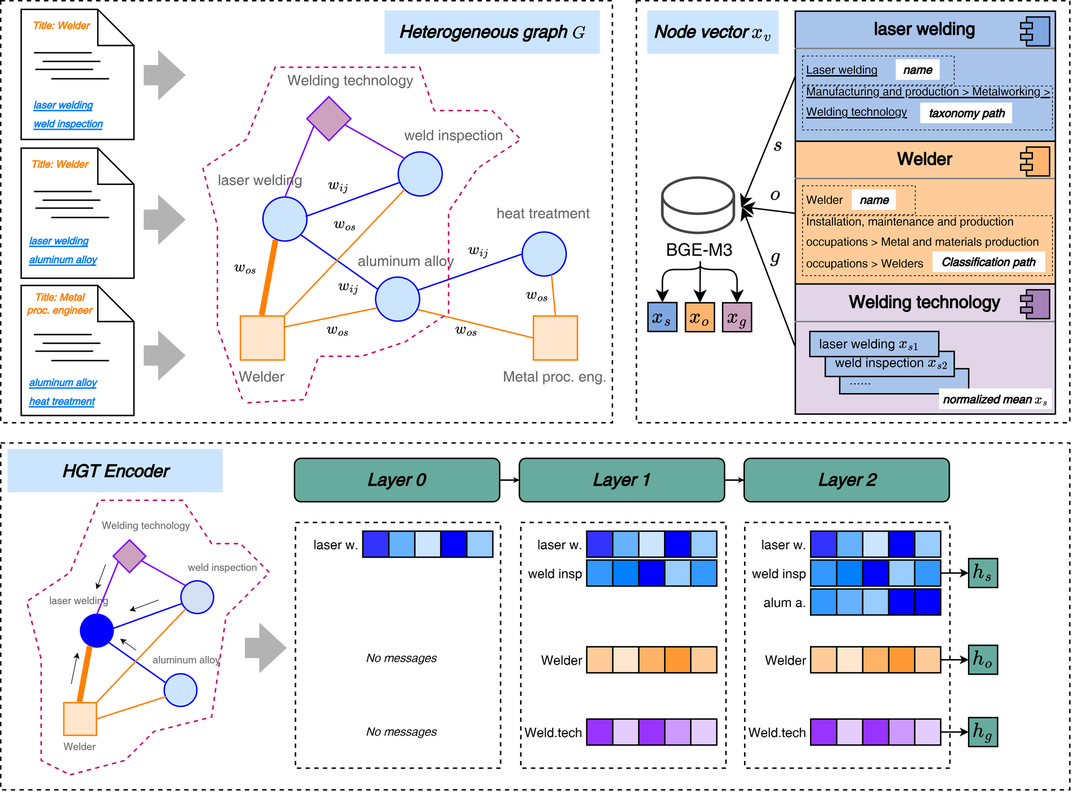
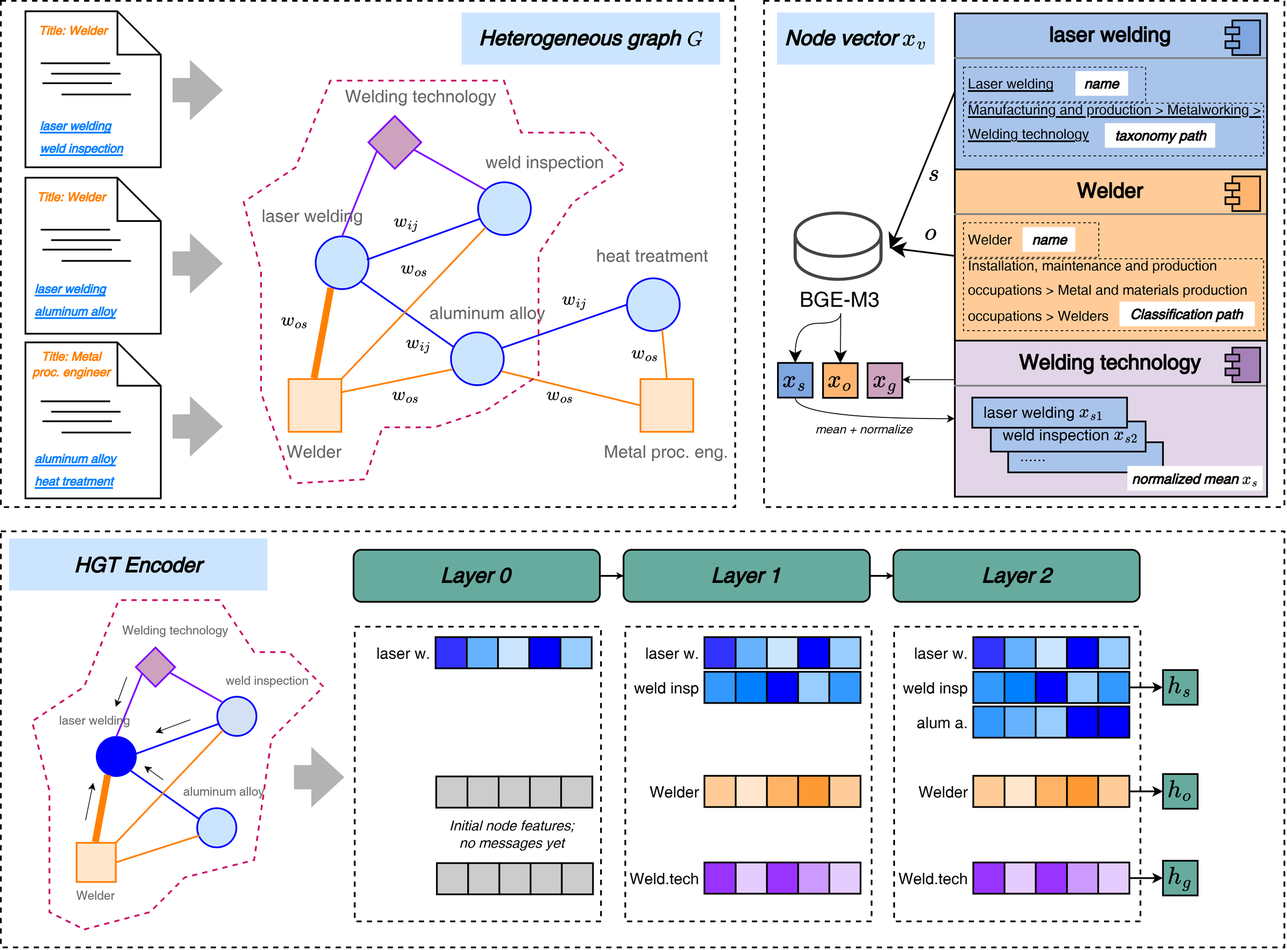
Align documentation and figures with the revised manuscript

diff --git a/docs/results.md b/docs/results.md
@@ -6,21 +6,21 @@ All numbers are taken from *LARA: Labor-market-aware relational attention for te
 
 | Item | Value |
 | --- | --- |
-| Labor-market data | Korean job postings, 2021-2024; 7,934,099 postings |
-| Patents | Granted Korean patents filed 2019-2023; 40 per year, 200 in total |
+| Labor-market data | Korean job postings, 2021-2024; 7,934,099 postings after duplicate removal |
+| Patents | Granted Korean patents filed 2019-2023 in the foundational technology industries; 40 per year, 200 in total |
 | Candidate skills | Entire skill dictionary, 6,558 skills |
 | Graph nodes | 6,558 skills, 450 occupations, 29 / 118 / 464 taxonomy groups |
 | Graph relations | occupation-skill, skill co-occurrence, taxonomy membership, aggregated group co-occurrence |
 | Train / validation / test | 120 / 40 / 40 patents |
 | Known relevant pairs | 1,040 (train), 352 (validation), 367 (test); one explicit negative per split |
-| Relevant skill | merged human grade 1 or 2 |
+| Relevant skill | human grade 1 or 2, the higher grade given under the development and the use of the technology |
 | Evaluation unit | full-dictionary recommendation list per patent |
 
-Learned models were trained with three seeds (42, 43, 44); checkpoints were selected on validation known-positive Recall@5 and evaluated once on the sealed test set. Bold marks the best value per column.
+Learned models were trained three times with different random initializations (seeds 42, 43, 44); checkpoints were selected on validation known-positive Recall@5 and evaluated once on the sealed test set. Means and sample SDs are over the three runs; paired increments are computed within each run before averaging. The SD describes training variation, not a confidence interval. Bold marks the best value per column.
 
-## Full-dictionary retrieval on the test set (%)
+## Full-dictionary retrieval on the test set (RQ1, %)
 
-Recall@5 is mean ± sample SD across seeds; other columns are means. Skill frequency, which retrieves no known positive at any cutoff, is omitted.
+Recall@5 is mean ± sample SD across runs; other columns are means. Skill frequency, which retrieves no known positive at any cutoff, is omitted.
 
 | Model | Recall@5 | Hit@5 | Recall@20 | Recall@100 |
 | --- | ---: | ---: | ---: | ---: |
@@ -36,15 +36,15 @@ Recall@5 is mean ± sample SD across seeds; other columns are means. Skill frequ
 | LARA-NA | 18.60 ± 1.10 | 84.17 | 41.11 | 68.26 |
 | **LARA** | **20.86 ± 0.90** | **87.50** | **44.26** | **72.82** |
 
-Relation diffusion equals BGE similarity because validation selected a diffusion strength of zero. Within-seed increments of LARA over Text MLP, HGT and LARA-NA: 4.92 ± 1.26, 3.93 ± 0.19 and 2.26 ± 0.45 percentage points.
+Relation diffusion equals BGE similarity because validation selected a diffusion strength of zero. Paired increments of LARA over Text MLP, HGT and LARA-NA: 4.92 ± 1.26, 3.93 ± 0.19 and 2.26 ± 0.45 percentage points. These are differences between complete architectures; they do not isolate the effect of a specific relation.
 
-![RQ1: Recall@5 and Recall@K on the test set](figures/results_rq1.png)
+![RQ1: Recall@K on the test set](figures/results_rq1.png)
 
-## Recall by semantic group (test Recall@5, %, mean ± SD)
+## Recall by similarity bin (RQ2, test Recall@5, %, mean ± SD)
 
-Low, medium and high bins are defined by the BGE cosine of training positives (127, 100 and 140 test pairs); the last column is the overlapping subset of 334 positives outside each patent's BGE top five.
+Low, middle and high bins are defined by the BGE cosine of training positives (127, 100 and 140 test pairs); the last column is the overlapping subset of 334 positives outside each patent's BGE top five.
 
-| Model | Low | Medium | High | Outside BGE top-5 |
+| Model | Low | Middle | High | Outside BGE top-5 |
 | --- | ---: | ---: | ---: | ---: |
 | BGE similarity | 0.00 | 0.95 | **37.91** | 0.00 |
 | Relation diffusion | 0.00 | 0.95 | **37.91** | 0.00 |
@@ -60,13 +60,28 @@ Low, medium and high bins are defined by the BGE cosine of training positives (1
 
 Relative to Text MLP, LARA retrieves 24.00 additional positive pairs outside the BGE top five while losing 8.67 (net +15.33); relative to HGT the counts are 21.33 and 6.67, relative to LARA-NA 16.33 and 7.33. BGE's higher macro recall in the high bin does not contradict LARA recovering more high-bin pairs in absolute terms (41 versus 32 on average): the macro metric divides by each patent's number of positives in the bin first.
 
-![RQ2: recall by semantic group and pairwise gains](figures/results_rq2.png)
+![RQ2: recall by similarity bin and pairwise gains](figures/results_rq2.png)
+
+### Known positives by skill attribute
+
+The same test lists decomposed by attributes of the relevant skill (boundaries from training positives). Values are paired increments of LARA over Text MLP in Recall@5, percentage points, with the number of relevant pairs in the group.
+
+| Attribute | Groups (pairs) | LARA − Text MLP |
+| --- | --- | --- |
+| Grade | directly relevant, grade 2 (118); indirectly relevant, grade 1 (249) | +7.24 ± 3.09; +2.96 ± 0.64 |
+| Posting-frequency tercile | lowest; middle; highest | +3.06 ± 4.96; +9.09 ± 1.18; −0.37 ± 1.04 |
+| Co-occurrence-degree tercile | least connected (includes 12 isolated pairs); most connected | +2.57 ± 4.54; +6.12 ± 0.54 (the middle tercile lies between; see figure) |
+| Taxonomy group | engineering; manufacturing and production; information technology (41 pairs, 10 patents) | +10.35 ± 4.70; +6.86 ± 4.21; +0.56 ± 1.73 |
+
+In the highest posting-frequency tercile Text MLP reaches 18.30 % and LARA a similar value; for information-technology skills LARA's recall (2.50 %) lies 5.00 points below the control without posting relations. The analysis does not identify why. Groups overlap, and differences between groups are not causal effects of the attribute.
+
+![Known positives by skill attribute](figures/results_rq2_groups.png)
 
 ## Structural ablations
 
-Increments are LARA minus the control in known-positive Recall@5, in percentage points, computed within matching seeds before averaging; positive values favor LARA. Controls: removal of occupation relations, removal of skill co-occurrence, removal of all posting relations, degree-preserving rewiring of the market graph, and fixed (not patent-conditioned) occupation routing.
+Increments are LARA minus the control in known-positive Recall@5, in percentage points, computed within matching runs before averaging; positive values favor LARA. Controls: removal of occupation relations, removal of skill co-occurrence, removal of all posting relations, degree-preserving rewiring of the market graph (one rewired graph), and fixed (not patent-conditioned) occupation routing.
 
-| Control | Test Recall@5 | Increment | Low | Medium | High | Outside BGE top-5 |
+| Control | Test Recall@5 | Increment | Low | Middle | High | Outside BGE top-5 |
 | --- | ---: | ---: | ---: | ---: | ---: | ---: |
 | LARA | 20.86 ± 0.90 | – | | | | |
 | without occupation relations | 19.95 ± 1.11 | +0.91 ± 1.45 | −1.99 | +0.98 | +4.23 | +0.94 |
@@ -75,13 +90,13 @@ Increments are LARA minus the control in known-positive Recall@5, in percentage 
 | rewired market graph | 21.65 ± 0.71 | −0.79 ± 0.20 | −1.13 | −0.27 | −2.90 | −0.37 |
 | fixed occupation routing | 20.43 ± 0.59 | +0.43 ± 1.44 | −0.11 | −1.60 | +1.32 | +0.40 |
 
-The removal and fixed-routing controls lower recall, which quantifies the contribution of those components. Removing co-occurrence and rewiring do not, so the experiments support the complete architecture while not establishing that the observed edge arrangement itself is necessary. The proposed model and protocol were not changed after these test results were inspected.
+The removal and fixed-routing controls lower recall, which quantifies the contribution of those components. Removing co-occurrence and rewiring do not, so the experiments support the complete architecture while not establishing that the observed edge arrangement itself is necessary; why the rewired graph remains effective is not identified. The proposed model and protocol were not changed after these test results were inspected.
 
 ![Ablations: increments overall and by group](figures/results_ablation.png)
 
-## Sensitivity to training-set size (validation Recall@5, %)
+## Sensitivity to training-set size (RQ3, validation Recall@5, %)
 
-Separate fits on nested training subsets; at 30-90 patents the SD combines three subset draws and three seeds, at 120 patents three seeds. The last two columns are matched increments.
+Separate fits on nested training subsets drawn within each filing year. At 30, 60 and 90 patents each model is fitted with three subset draws and three initializations per draw (nine runs); at 120 patents the complete training set is used with three initializations only. The last two columns are paired increments.
 
 | Training patents | Runs per model | Text MLP | LARA-NA | LARA | LARA − Text MLP | LARA − LARA-NA |
 | ---: | ---: | ---: | ---: | ---: | ---: | ---: |
@@ -90,6 +105,23 @@ Separate fits on nested training subsets; at 30-90 patents the SD combines three
 | 90 | 9 | 19.34 ± 0.55 | 21.42 ± 0.88 | **22.53 ± 0.79** | +3.19 ± 0.94 | +1.11 ± 0.94 |
 | 120 | 3 | 19.17 ± 0.84 | 22.00 ± 0.88 | **23.50 ± 1.10** | +4.33 ± 0.67 | +1.50 ± 1.86 |
 
+The mean advantage remains positive at every size but does not increase consistently as fewer labels are used, so the results do not support the claim that posting relations substitute for labeled patents. The comparison concerns complete architectures, and the 120-patent fits do not replace the frozen checkpoints of the main test.
+
+![RQ3: validation Recall@5 by number of labeled training patents](figures/results_training_size.png)
+
+## Precision of the complete top-five lists (RQ4, test, one training run)
+
+For the 40 test patents, every previously unjudged top-five recommendation of LARA, Text MLP, HGT and BGE similarity (371 pairs, one training run per learned model) was judged by the two original annotators, blind to the recommending model, with a coordinator adjudicating disagreements; 364 pairs received a grade and 7 remained withheld. Precision@5 counts slots with grade 1 or 2; strict Precision@5 counts grade 2 only. Withheld slots receive no relevance credit but remain in the denominator. Brackets are 95 % percentile-bootstrap intervals over patents (10,000 resamples); the last column is LARA minus the model.
+
+| Model | Precision@5 | 95 % CI | Strict Precision@5 | 95 % CI | Withheld slots | LARA − model |
+| --- | ---: | ---: | ---: | ---: | ---: | ---: |
+| BGE similarity | 32.00 | [25.0, 39.0] | 16.50 | [11.0, 23.0] | 6 | +45.00 [+36.5, +53.5] |
+| Text MLP | 70.00 | [64.0, 76.0] | 38.00 | [30.5, 45.5] | 0 | +7.00 [+1.0, +13.0] |
+| HGT | 65.50 | [59.0, 72.0] | 39.50 | [33.0, 46.0] | 1 | +11.50 [+5.5, +18.0] |
+| **LARA** | **77.00** | [71.5, 82.5] | **45.00** | [38.0, 52.0] | 0 | – |
+
+Of LARA's 200 slots, 90 received grade 2, 64 grade 1 and 46 grade 0. The strict-precision difference over Text MLP (+7.0, +0.5 to +13.5) excludes zero, whereas the difference over HGT (+5.5, −0.5 to +12.0) includes zero. Among previously unjudged recommendations that received a grade, 62.9 % were found relevant for LARA (124 pairs), 59.2 % for Text MLP (147), 51.1 % for HGT (139 graded of 140) and 19.3 % for BGE similarity (161 graded of 167). Known-positive Recall@5 therefore describes recovery of the reference set, not the relevance of the list.
+
 ## What the method does and does not claim
 
-The method retrieves candidate skills for a new description in an observed labor-market context. It does not forecast which skills will be adopted, and the Korean experiment does not show that trained weights transfer unchanged to another national labor market. Reported recall covers known positives only; unjudged recommendations are neither correct nor incorrect under these data.
+The method retrieves candidate skills for a new description in an observed labor-market context (Korean postings of 2021-2024, which include observations after some patents' filing dates). It does not forecast which skills will be adopted, and the Korean experiment does not show that trained weights transfer unchanged to another national labor market. Reported recall covers known positives only; unjudged recommendations are neither correct nor incorrect under these data, and the judged-list precision is available for four models and one training run.

diff --git a/README.md b/README.md
@@ -11,15 +11,15 @@ This repository packages the architecture and the data pipeline so that the meth
 1. **Labor-market graph and node features.** Job postings and the skill dictionary define a heterogeneous graph of skills (co-occurrence edges), occupations (occupation-skill demand edges) and taxonomy groups (membership and aggregated co-occurrence). Every node carries a frozen text embedding (BGE-M3 by default); a static typed graph attention encoder (HGT-style, with a log edge-weight prior) produces node states.
 2. **Patent-conditioned node attention.** The description embedding passes through a content-preserving adapter and attends, per node type, to actual skill, occupation and taxonomy nodes.
 3. **Relation routes and fusion.** Attention mass reaches skills through three routes: a skill route over co-occurrence, an occupation route whose occupation-to-skill weights depend on the description, and a taxonomy route. A gate conditioned on the original embedding mixes the routes; the same gate applied to a uniform-attention reference gives a baseline mass, and the log ratio is the graph evidence for each skill.
-4. **Skill score.** A decoder over query and skill states plus the graph evidence forms a residual that is bounded by `0.1 * tanh(.)` around the text cosine, so the model starts at the semantic baseline and can only correct it within a corridor. Training minimizes a KL loss against soft targets built from the text similarity distribution with known positives mixed in and explicit negatives removed. The top-K skills are selected from the full dictionary.
+4. **Skill score.** A decoder over the projected query, the skill state, the text similarity and the skill's posting frequency, together with the graph evidence, forms a residual that is bounded by `0.1 * tanh(.)` around the text cosine, so the model starts at the semantic baseline and can only correct it within a corridor. Training minimizes a KL loss against soft targets built from the text similarity distribution with known positives mixed in and explicit negatives removed. The top-K skills are selected from the full dictionary.
 
 The `lara-na` variant keeps the node attention but routes evidence with fixed market weights and equal mass per node type. Component-level details and hyperparameters: [docs/models.md](docs/models.md).
 
 ## Results
 
-Numbers come from the manuscript *LARA: Labor-market-aware relational attention for technology-to-skill recommendation* (under review). Data: 7,934,099 Korean job postings (2021-2024), a dictionary of 6,558 skills with a 29/118/464 taxonomy, 450 occupations, and 200 human-labeled patents filed 2019-2023 split 120 / 40 / 40 into train / validation / test. Metrics are computed over the full 6,558-skill list per patent; recall counts known relevant skills only, and unjudged recommendations are never treated as errors. Learned models report the mean over three training seeds.
+Numbers come from the manuscript *LARA: Labor-market-aware relational attention for technology-to-skill recommendation* (under review). Data: 7,934,099 Korean job postings (2021-2024), a dictionary of 6,558 skills with a 29/118/464 taxonomy, 450 occupations, and 200 human-labeled patents filed 2019-2023 split 120 / 40 / 40 into train / validation / test. Metrics are computed over the full 6,558-skill list per patent; recall counts known relevant skills only, and unjudged recommendations are never treated as errors. Learned models report the mean over three training runs with different random initializations.
 
-**Held-out test retrieval (40 patents, 367 known relevant pairs, %).** Recall@5 is mean ± sample SD across seeds.
+**Held-out test retrieval (40 patents, 367 known relevant pairs, %).** Recall@5 is mean ± sample SD across runs.
 
 | Model | Recall@5 | Hit@5 | Recall@20 | Recall@100 |
 | --- | ---: | ---: | ---: | ---: |
@@ -34,13 +34,13 @@ Numbers come from the manuscript *LARA: Labor-market-aware relational attention 
 | LARA-NA (`lara-na`) | 18.60 ± 1.10 | 84.17 | 41.11 | 68.26 |
 | **LARA (`lara`)** | **20.86 ± 0.90** | **87.50** | **44.26** | **72.82** |
 
-Within-seed increments of LARA over Text MLP, HGT and LARA-NA are 4.92 ± 1.26, 3.93 ± 0.19 and 2.26 ± 0.45 percentage points.
+Paired increments of LARA over Text MLP, HGT and LARA-NA (computed within each run) are 4.92 ± 1.26, 3.93 ± 0.19 and 2.26 ± 0.45 percentage points. These are differences between complete architectures and do not isolate a single relation.
 
 ![RQ1 results](docs/figures/results_rq1.png)
 
-**Skills that semantic similarity misses.** Among the 334 known relevant pairs outside the BGE top five, LARA recovers 15.94 ± 0.83 % at K = 5, compared with 11.74 ± 0.34 % for Text MLP, 11.53 ± 1.05 % for HGT and 13.57 ± 1.12 % for LARA-NA. Relative to Text MLP, LARA retrieves 24.00 additional positive pairs on average while losing 8.67. Across similarity bins defined on training data, LARA and Text MLP are close in the low bin (10.81 vs 10.91 %), while LARA leads in the medium bin (22.23 vs 19.92 %); BGE keeps the highest macro recall in the high bin (37.91 vs 34.37 %).
+**Skills that semantic similarity misses.** Among the 334 known relevant pairs outside the BGE top five, LARA recovers 15.94 ± 0.83 % at K = 5, compared with 11.74 ± 0.34 % for Text MLP, 11.53 ± 1.05 % for HGT and 13.57 ± 1.12 % for LARA-NA. Relative to Text MLP, LARA retrieves 24.00 additional positive pairs on average while losing 8.67. Across similarity bins defined on training data, LARA and Text MLP are close in the low bin (10.81 vs 10.91 %), while LARA leads in the middle bin (22.23 vs 19.92 %); BGE keeps the highest macro recall in the high bin (37.91 vs 34.37 %). Decomposed by attributes of the relevant skill, the gain over Text MLP is largest for directly relevant, moderately frequent and well-connected skills and for engineering and manufacturing skill groups; it is absent in the highest posting-frequency tercile and small for information-technology skills ([docs/results.md](docs/results.md)).
 
-**Structural ablations (test Recall@5, LARA minus control, percentage points, within matching seeds).**
+**Structural ablations (test Recall@5, LARA minus control, percentage points, paired within runs).**
 
 | Control | Recall@5 | Increment |
 | --- | ---: | ---: |
@@ -51,7 +51,9 @@ Within-seed increments of LARA over Text MLP, HGT and LARA-NA are 4.92 ± 1.26, 
 | degree-preserving rewiring | 21.65 ± 0.71 | −0.79 ± 0.20 |
 | fixed occupation routing | 20.43 ± 0.59 | +0.43 ± 1.44 |
 
-Removing posting relations or fixing occupation routing lowers recall, but a rewired graph performs slightly better than the observed one, so the results support the complete architecture without establishing that the exact observed edge arrangement is necessary. On the validation set, LARA's advantage over Text MLP holds at every training size from 30 to 120 patents (+3.0 to +4.3 points). Full tables and the remaining figures: [docs/results.md](docs/results.md).
+Removing posting relations or fixing occupation routing lowers recall, but a rewired graph performs slightly better than the observed one, so the results support the complete architecture without establishing that the exact observed edge arrangement is necessary. On the validation set, LARA's mean advantage over Text MLP remains positive at every training size from 30 to 120 patents (+3.0 to +4.3 points) but does not increase consistently as fewer labels are used.
+
+**Precision of the complete top-five lists.** Known-positive recall says nothing about unjudged recommendations, so the experts judged every previously unjudged top-five recommendation of LARA, Text MLP, HGT and BGE similarity for the 40 test patents (one training run per learned model). Precision@5 is 77.0 % for LARA, 70.0 % for Text MLP, 65.5 % for HGT and 32.0 % for BGE similarity; the paired differences over Text MLP (+7.0 points, 95 % patent-bootstrap interval +1.0 to +13.0) and HGT (+11.5, +5.5 to +18.0) exclude zero, and 62.9 % of LARA's previously unjudged recommendations were judged relevant. Known-positive recall therefore describes recovery of the reference set, not the relevance of the list. Full tables and the remaining figures: [docs/results.md](docs/results.md).
 
 ## Install
 

diff --git a/docs/reproducing_the_paper.md b/docs/reproducing_the_paper.md
@@ -7,10 +7,10 @@ This package contains the architecture and pipeline used for *LARA: Labor-market
 | Input | Paper | Why it is not included |
 | --- | --- | --- |
 | job postings | 7.93 million cleaned Korean postings, 2021-2024, with 4-digit occupation codes and dictionary skill codes assigned by the data provider | licensed platform data |
-| skill dictionary | Korean skill dictionary version 2.2, 6,558 skills with a three-level taxonomy | provided by the Korea Labor Institute under terms that do not permit redistribution |
+| skill dictionary | the Skill Dictionary provided by the Korea Labor Institute (KLI), 6,558 skills with a three-level taxonomy (29 / 118 / 464 groups) | provided under terms that do not permit redistribution |
 | occupation table | Korean Employment Classification of Occupations 2018 (450 four-digit occupations) | distributed by its publisher |
-| technology descriptions | 200 Korean patents (title plus abstract), 40 per application year 2019-2023, from a root-industry patent collection | collection terms |
-| relevance judgments | human grades (2 direct, 1 indirect, 0 irrelevant, withheld) over a candidate pool of 1,932 pairs; two work-type perspectives merged into one task by union and maximum grade | contains the dictionary's skill names |
+| technology descriptions | 200 granted Korean patents (title plus abstract), 40 per application year 2019-2023, drawn from a KIPRIS search over the foundational technology industries defined by KPIC | collection terms |
+| relevance judgments | human grades (2 directly relevant, 1 indirectly relevant or related interdisciplinary technical skill, 0 not relevant, withheld) over a candidate pool of 1,932 pairs; annotators considered both the development and the use of the technology, and a pair's grade is the higher of the two; a second judgment round covered the 371 previously unjudged top-five recommendations of four models for the test patents (used only for the precision analysis) | contains the dictionary's skill names |
 
 Trained checkpoints are bound to the candidate table, which lists the dictionary's skill names, so they are not distributed either.
 
@@ -20,7 +20,7 @@ Trained checkpoints are bound to the candidate table, which lists the dictionary
 - Skill graph: co-occurrence counted once per posting; edges kept with support >= 5 and cosine >= 0.01; isolated and unobserved skills kept as candidates.
 - Occupation relations: `n_os / sqrt(n_o * n_s)`, minimum 5 joint postings, row-normalized per direction.
 - Splits: 120 / 40 / 40 descriptions, seed 42, grouped by application, family and identical text, balanced per year.
-- Model and training: the defaults in `lara_skills/app.py` (hidden 128, decoder 64, 2 layers, 4 heads, 60 epochs, AdamW 1e-3, residual bound 0.1, retrieval temperature 0.03, positive target mass 0.5). Three training seeds (42, 43, 44); checkpoint selection on validation known-positive Recall@5.
+- Model and training: the defaults in `lara_skills/app.py` (hidden 128, decoder 64, 2 layers, 4 heads, 60 epochs, AdamW 1e-3, residual bound 0.1, retrieval temperature 0.03, positive target mass 0.5; the manuscript lists them in Appendix A). Three training runs with initialization seeds 42, 43, 44; checkpoint selection on validation known-positive Recall@5.
 - Test evaluation: one sealed pass over the 40 held-out descriptions with the fixed checkpoints.
 
 Running `lara-skills build` with these defaults on comparable inputs reproduces the preparation and training path of the proposed model for one seed. Repeat `build --variant ...` with different `seed` values and `version` names for multi-seed results.
@@ -28,7 +28,7 @@ Running `lara-skills build` with these defaults on comparable inputs reproduces 
 ## Not included
 
 - Benchmarks (Text MLP, GraphSAGE, GraphSAGE-Full, R-GCN, PinSage, HGT, taxonomy-gated models) and the ablation controls (removing occupation, co-occurrence or all posting relations, degree-preserving rewiring, fixed occupation routing).
-- The sealed final-test protocol that evaluates many frozen checkpoints at once, the semantic-similarity-bin analysis, the training-size study, bootstrap supplements and the figure and table scripts.
-- The converter that merges two work-type judgment sets into the single task; this package expects single-task judgments directly.
+- The sealed final-test protocol that evaluates many frozen checkpoints at once, the semantic-similarity-bin analysis, the decomposition of known positives by skill attribute, the training-size study, the precision analysis of the judged top-five lists (patient bootstrap, Wilcoxon and sign tests), bootstrap supplements and the figure and table scripts.
+- The converter that combines the two annotation considerations (development and use of the technology) into one grade per pair; this package expects single-task judgments directly.
 
 The research code that contains these parts is kept with the project; `SOURCE_MAP.md` lists the modules that were copied, adapted or left out.

diff --git a/docs/models.md b/docs/models.md
@@ -16,7 +16,7 @@ The internal identifiers are kept because configurations and checkpoints record 
 | Labor-market graph and node features | frozen text features for skills, occupations, taxonomy groups; typed graph attention (HGT-style, static, with a log edge-weight prior) | `encoders`, `attention_ranker.TypedAttentionLayer`, `attention_ranker.AttentionRanker` |
 | Patent-conditioned node attention | per-type softmax attention of the query over actual nodes | `network_attention_ranker.NetworkAttentionRanker.node_attention`, `conditional_routing_ranker.ConditionalRoutingRanker.content_attention` |
 | Relation routes | co-occurrence route (direct plus propagated), occupation route with query-conditioned edge probabilities, taxonomy route, gate over the three families, uniform-attention reference mass | `ConditionalRoutingRanker.encode_queries` and helpers |
-| Skill score | decoder over query and skill states plus log-ratio of routed mass to its reference, bounded by `residual_bound * tanh(.)` around the text cosine | `ConditionalRoutingRanker.score_pairs`, `ranking.SkillRanker.combine_scores` |
+| Skill score | decoder over the projected query, the skill state, the text cosine and the skill's posting frequency, plus the log-ratio of routed mass to its reference, bounded by `residual_bound * tanh(.)` around the text cosine | `ConditionalRoutingRanker.score_pairs`, `ranking.SkillRanker.combine_scores` |
 | Training objective for partial labels | soft targets from the frozen cosine distribution, positives mixed in with `positive_target_mass`, explicit zeros removed, KL retrieval loss plus auxiliary pairwise loss and residual penalty | `retrieval_objective` |
 | Inference | all-candidate scoring in chunks; descriptions encoded in memory | `recommender.RecommendationEngine` |
 
@@ -58,7 +58,7 @@ The three figures below walk through the stages on a toy graph (names, weights a
 
 ![Graph and node features](figures/graph_and_features.png)
 
-**Patent-conditioned node attention.** The description embedding passes through the content-preserving adapter (bounded change, identity at initialization) and a projection. For each node type, a text term compares the adapted query with the node text vectors and a bounded graph term compares projected states; one softmax per node type gives the attention.
+**Patent-conditioned node attention.** The description embedding passes through the content-preserving adapter (a residual whose norm is bounded by `content_query_bound` before renormalization; identity at initialization) and a projection. For each node type, a text term compares the adapted query with the node text vectors (divided by `semantic_attention_temperature`) and a graph term scaled by `learned_attention_bound` compares projected states; one softmax per node type gives the attention.
 
 ![Node attention](figures/node_attention.png)
 

diff --git a/CHANGELOG.md b/CHANGELOG.md
@@ -5,6 +5,7 @@
 - README: architecture figure, main results of the manuscript, shorter usage section.
 - New `docs/results.md` with the full result tables and figures; method illustrations added to `docs/models.md`.
 - Repository URL corrected to `SimGGG/lara-skills`.
+- 2026-10-13: documentation aligned with the revised manuscript. Figures replaced by the revised exports (architecture figure with the decoder inputs, group vector from member skills, residual-norm bound in the attention figure, unified result figures with the "Middle" similarity bin); result pages add the decomposition of known positives by skill attribute, the training-size curves and the precision of the judged top-five lists; "seeds" renamed "training runs" in the result descriptions; data description updated (dictionary name, patent search, judgment procedure, second judgment round). No code change.
 
 ## 0.1.0 (2026-10-11)
 
